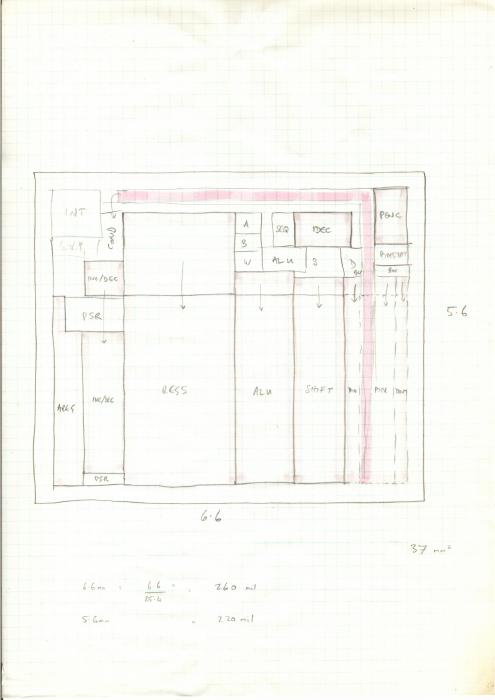
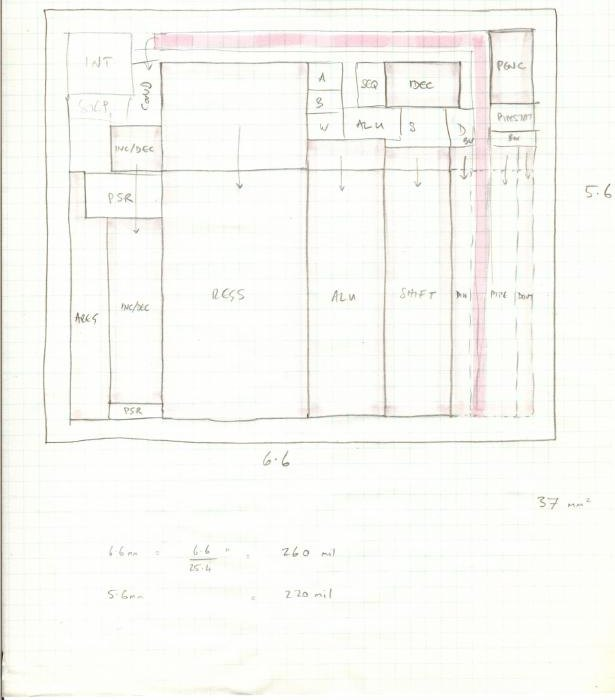
Update the site

diff --git a/index.html b/index.html
@@ -793,7 +793,13 @@ a chip.</p></div></li></ul></section><section class="panel prose" data-tab="reso
 
   The filename must match the file in Drive exactly — that is what the Drive
   link is keyed on — but the title beside it is free text, so retitling a card
-  never breaks its link. Covers live in Input/images/resources/ and are named
+  never breaks its link.
+
+  The Drive folder is flat: the `##` groups are a property of this page only,
+  and no folder corresponds to them. Renaming a group therefore means renaming
+  its covers and rekeying its entries in drive-links.json, neither of which
+  Drive knows about. (A stale key still resolves — the build falls back to
+  matching the filename alone when it is unambiguous — but fix it anyway.) Covers live in Input/images/resources/ and are named
   <group>-<filename>.jpg, slugified (for a web link, <group>-<title>.jpg);
   run tools/make-covers.py to render them.
 --><h2>Review</h2><ul class="gallery"><li><a class="shot" href="https://drive.google.com/file/d/1ZW4hnGUgN6runjt4HE4IepgJ8NDTSSok/view"><img class="cover" width="700" height="394" src="images/resources/review-eecs-270-370-digital-logic-review.jpg" alt="" loading="lazy"></a><div class="doc"><h3><a href="https://drive.google.com/file/d/1ZW4hnGUgN6runjt4HE4IepgJ8NDTSSok/view">EECS 270/370 Digital Logic Review</a></h3><p>The Lab 0 slide deck, revisiting the EECS 270 digital logic you will need
@@ -810,7 +816,7 @@ the most time. Start here.</p></div></li><li><a class="shot" href="https://drive
 verification language and showing which of its constructs synthesis tools
 genuinely accept.</p></div></li><li><a class="shot" href="https://drive.google.com/file/d/1B1SsYo2S9bU2oggyMK1t07xmiD1U6Iz7/view"><img class="cover" width="700" height="541" src="images/resources/verilog-2013-snug-sv-synthesizable-systemverilog-presentation.jpg" alt="" loading="lazy"></a><div class="doc"><h3><a href="https://drive.google.com/file/d/1B1SsYo2S9bU2oggyMK1t07xmiD1U6Iz7/view">Synthesizing SystemVerilog (SNUG 2013 slides)</a></h3><p>The slides for that paper — the faster way in if you want the conclusions
 before the argument.</p></div></li><li><a class="shot" href="https://drive.google.com/file/d/1V-ntp9BecoYCNw_R05vs3tKKg1-n3HZG/view"><img class="cover" width="700" height="495" src="images/resources/verilog-verdi-basic-training.jpg" alt="" loading="lazy"></a><div class="doc"><h3><a href="https://drive.google.com/file/d/1V-ntp9BecoYCNw_R05vs3tKKg1-n3HZG/view">Verdi Basic Training &amp; Technical Overview</a></h3><p>Novas&rsquo; training deck for Verdi, covering nTrace, nSchema, nState and nWave. The
-tour worth taking before you debug a waveform in anger.</p></div></li><li><a class="shot" href="https://drive.google.com/file/d/1rLve1QFj40px32oTv-L8wkVsncCuAAx8/view"><img class="cover" width="541" height="700" src="images/resources/verilog-svug.jpg" alt="" loading="lazy"></a><div class="doc"><h3><a href="https://drive.google.com/file/d/1rLve1QFj40px32oTv-L8wkVsncCuAAx8/view">HDL Compiler™ for SystemVerilog User Guide</a></h3><p>Synopsys&rsquo; HDL Compiler for SystemVerilog user guide: the authoritative account
+tour worth taking before you debug a waveform in anger.</p></div></li><li><a class="shot" href="https://drive.google.com/file/d/1rLve1QFj40px32oTv-L8wkVsncCuAAx8/view"><img class="cover" width="551" height="701" src="images/resources/verilog-svug.jpg" alt="" loading="lazy"></a><div class="doc"><h3><a href="https://drive.google.com/file/d/1rLve1QFj40px32oTv-L8wkVsncCuAAx8/view">HDL Compiler™ for SystemVerilog User Guide</a></h3><p>Synopsys&rsquo; HDL Compiler for SystemVerilog user guide: the authoritative account
 of what the synthesis tool accepts and how it reads it. A reference to search,
 not a document to read.</p></div></li><li><a class="shot" href="https://drive.google.com/file/d/1GPhzF9muj4Wzn90PeZzziYs90sdkJfEQ/view"><img class="cover" width="545" height="700" src="images/resources/verilog-sverdi.jpg" alt="" loading="lazy"></a><div class="doc"><h3><a href="https://drive.google.com/file/d/1GPhzF9muj4Wzn90PeZzziYs90sdkJfEQ/view">Verdi User Guide and Tutorial</a></h3><p>The full Verdi user guide and tutorial from Synopsys. Nearly 500 pages — reach
 for it when the training deck runs out.</p></div></li></ul><h2>Microcode</h2><ul class="gallery"><li><a class="shot" href="https://drive.google.com/file/d/1jIq81nHd2tSZVA04sk5quzyXI6rfy-64/view"><img class="cover" width="495" height="700" src="images/resources/microcode-hennessy-patterson-r1-microcode-1990.jpg" alt="" loading="lazy"></a><div class="doc"><h3><a href="https://drive.google.com/file/d/1jIq81nHd2tSZVA04sk5quzyXI6rfy-64/view">Computer Architecture: A Quantitative Approach — 5.5 Microprogrammed Control</a></h3><p>The microprogramming material from the first edition of Hennessy and Patterson&rsquo;s
@@ -827,7 +833,7 @@ Goetz and others: Oak at Sun in the 1990s, the bet on a portable virtual
 machine, the lawsuits, and what thirty years of keeping a platform compatible
 actually costs.</p></div></li></ul><h2>ARM</h2><ul class="gallery"><li><a class="shot" href="https://drive.google.com/file/d/1sCekrjjFwocxXIa4yLBMxW3VvDntgLHB/view"><img class="cover" width="495" height="700" src="images/resources/arm-armblockspec.jpg" alt="" loading="lazy"></a><div class="doc"><h3><a href="https://drive.google.com/file/d/1sCekrjjFwocxXIa4yLBMxW3VvDntgLHB/view">ARM Block Spec - 1984</a></h3><p>A one-page note from March 1984 setting out what documentation every ARM block
 needed before it counted as finished: written specification, circuit diagram,
-SPICE runs at worst case, extracted simulation, timing, and a backup tape.</p></div></li><li><a class="shot" href="https://drive.google.com/file/d/1n8bNWyLMeC80Lb1f3CrxQ9vdI4MLPcqw/view"><img class="cover" width="495" height="700" src="images/resources/arm-armfloorplan.jpg" alt="" loading="lazy"></a><div class="doc"><h3><a href="https://drive.google.com/file/d/1n8bNWyLMeC80Lb1f3CrxQ9vdI4MLPcqw/view">ARM Floor Plan</a></h3><p>The ARM floor plan, in pencil on graph paper — registers, ALU, shifter,
+SPICE runs at worst case, extracted simulation, timing, and a backup tape.</p></div></li><li><a class="shot" href="https://drive.google.com/file/d/1n8bNWyLMeC80Lb1f3CrxQ9vdI4MLPcqw/view"><img class="cover" width="615" height="700" src="images/resources/arm-armfloorplan.jpg" alt="" loading="lazy"></a><div class="doc"><h3><a href="https://drive.google.com/file/d/1n8bNWyLMeC80Lb1f3CrxQ9vdI4MLPcqw/view">ARM Floor Plan</a></h3><p>The ARM floor plan, in pencil on graph paper — registers, ALU, shifter,
 instruction decode and the pipeline laid out across 6.6 by 5.6 mm. Thirty-seven
 square millimetres for a processor.</p></div></li><li><a class="shot" href="https://drive.google.com/file/d/16NCou9xq5WkyNkK0nQa3Qb1YrD9_1hTn/view"><img class="cover" width="495" height="700" src="images/resources/arm-1984-acorn-project-a-letter.jpg" alt="" loading="lazy"></a><div class="doc"><h3><a href="https://drive.google.com/file/d/16NCou9xq5WkyNkK0nQa3Qb1YrD9_1hTn/view">Acorn Project A Letter - 1984</a></h3><p>The July 1984 letter placing Acorn&rsquo;s &ldquo;Project A&rdquo; under confidentiality and
 naming the twenty-odd people permitted to know it existed. Project A became
@@ -856,7 +862,7 @@ and data-center architecture.</p></div></li></ul></section>
 <footer id="foot"></footer>
 </div>
 <script>
-const META = {"tz": "America/Detroit", "default": "schedule", "generated": "Aug 30, 2026 at 6:31 PM"};
+const META = {"tz": "America/Detroit", "default": "schedule", "generated": "Aug 30, 2026 at 7:22 PM"};
 const MO=["Jan","Feb","Mar","Apr","May","Jun","Jul","Aug","Sep","Oct","Nov","Dec"];
 
 /* The page is static; only this block is time-dependent, and it runs in the
